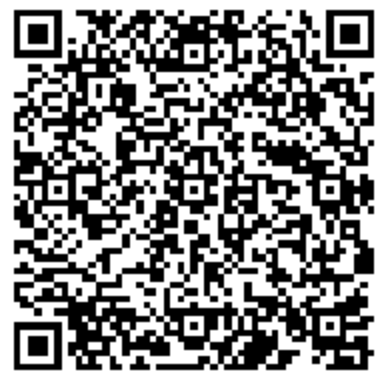
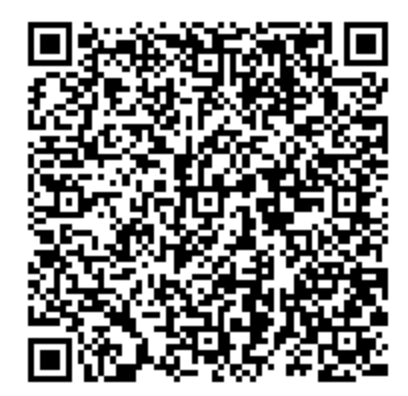
Updating campout signup and zelle qrcode

diff --git a/content/_index.md b/content/_index.md
@@ -17,7 +17,7 @@ main:
 > challenges the boys to live by the Scout Oath and Law.
 
 > [!primary] Sign-ups
-> [Biking Campout Signup](https://forms.gle/utpJK7jShDSYpkjMA?target=_blank)
+> [April Bamboo Campout Signup](https://forms.gle/Z76n3ts5yJtVPLcj9?target=_blank)
 >
 > [Summer Camp 2026 Signup](https://docs.google.com/forms/d/e/1FAIpQLSd4Ky1J6hVSlDFqpwdGlLUDlFZa1lUI65VZDbxpwBX7aNAloA/viewform?usp=sharing&ouid=104298845074822227947&target=_blank)
 
